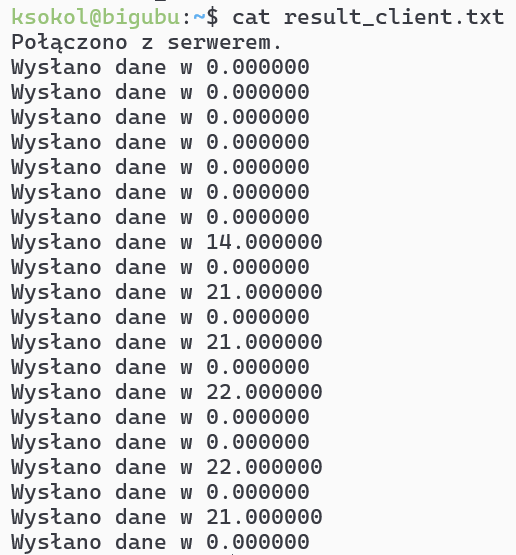
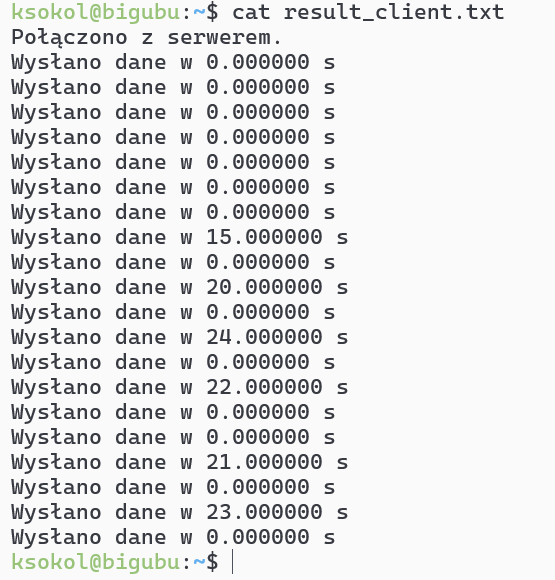
added seconds in clinet print info

Changed region(s): [[0.0, 0.0, 0.9922, 1.0]]

diff --git a/Z_2/client/client.c b/Z_2/client/client.c
@@ -54,7 +54,7 @@ int main(int argc, char *argv[]) {
         time(&end);
         // alredy in seconds
         double time_taken = difftime(end,start);
-        printf("Wysłano dane w %f\n", time_taken);
+        printf("Wysłano dane w %f s\n", time_taken);
     }
 
     free(buffer);
